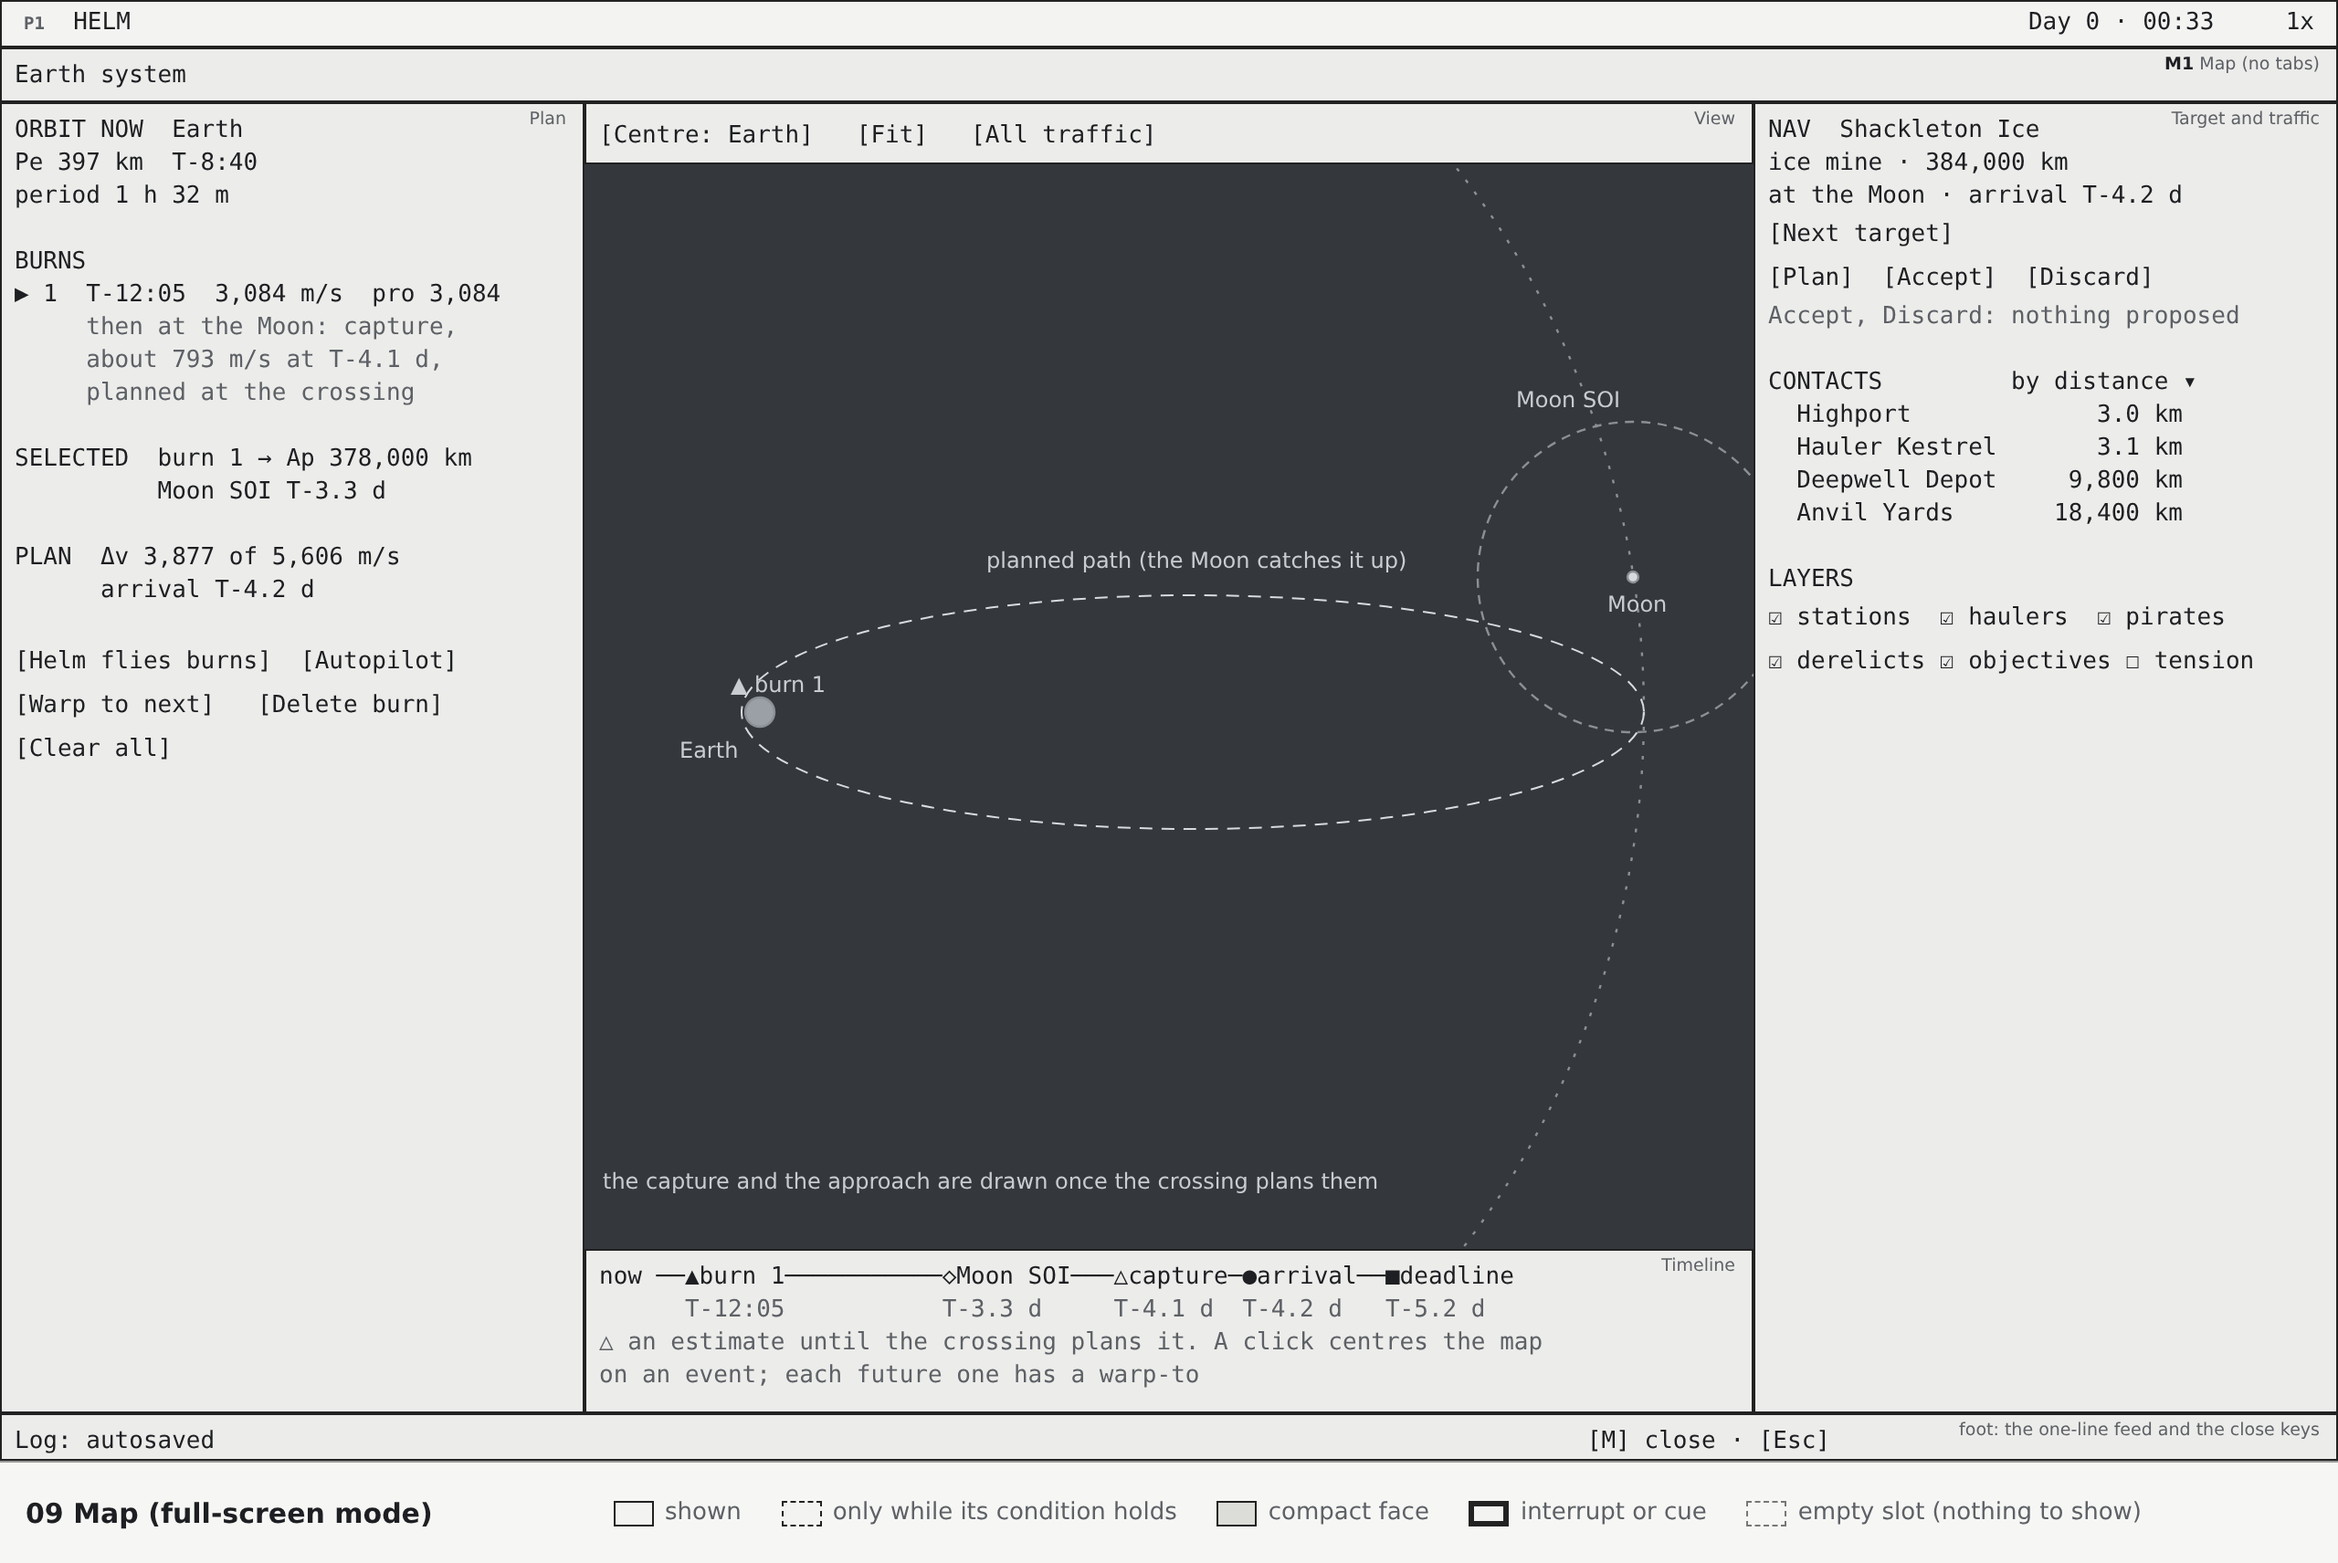
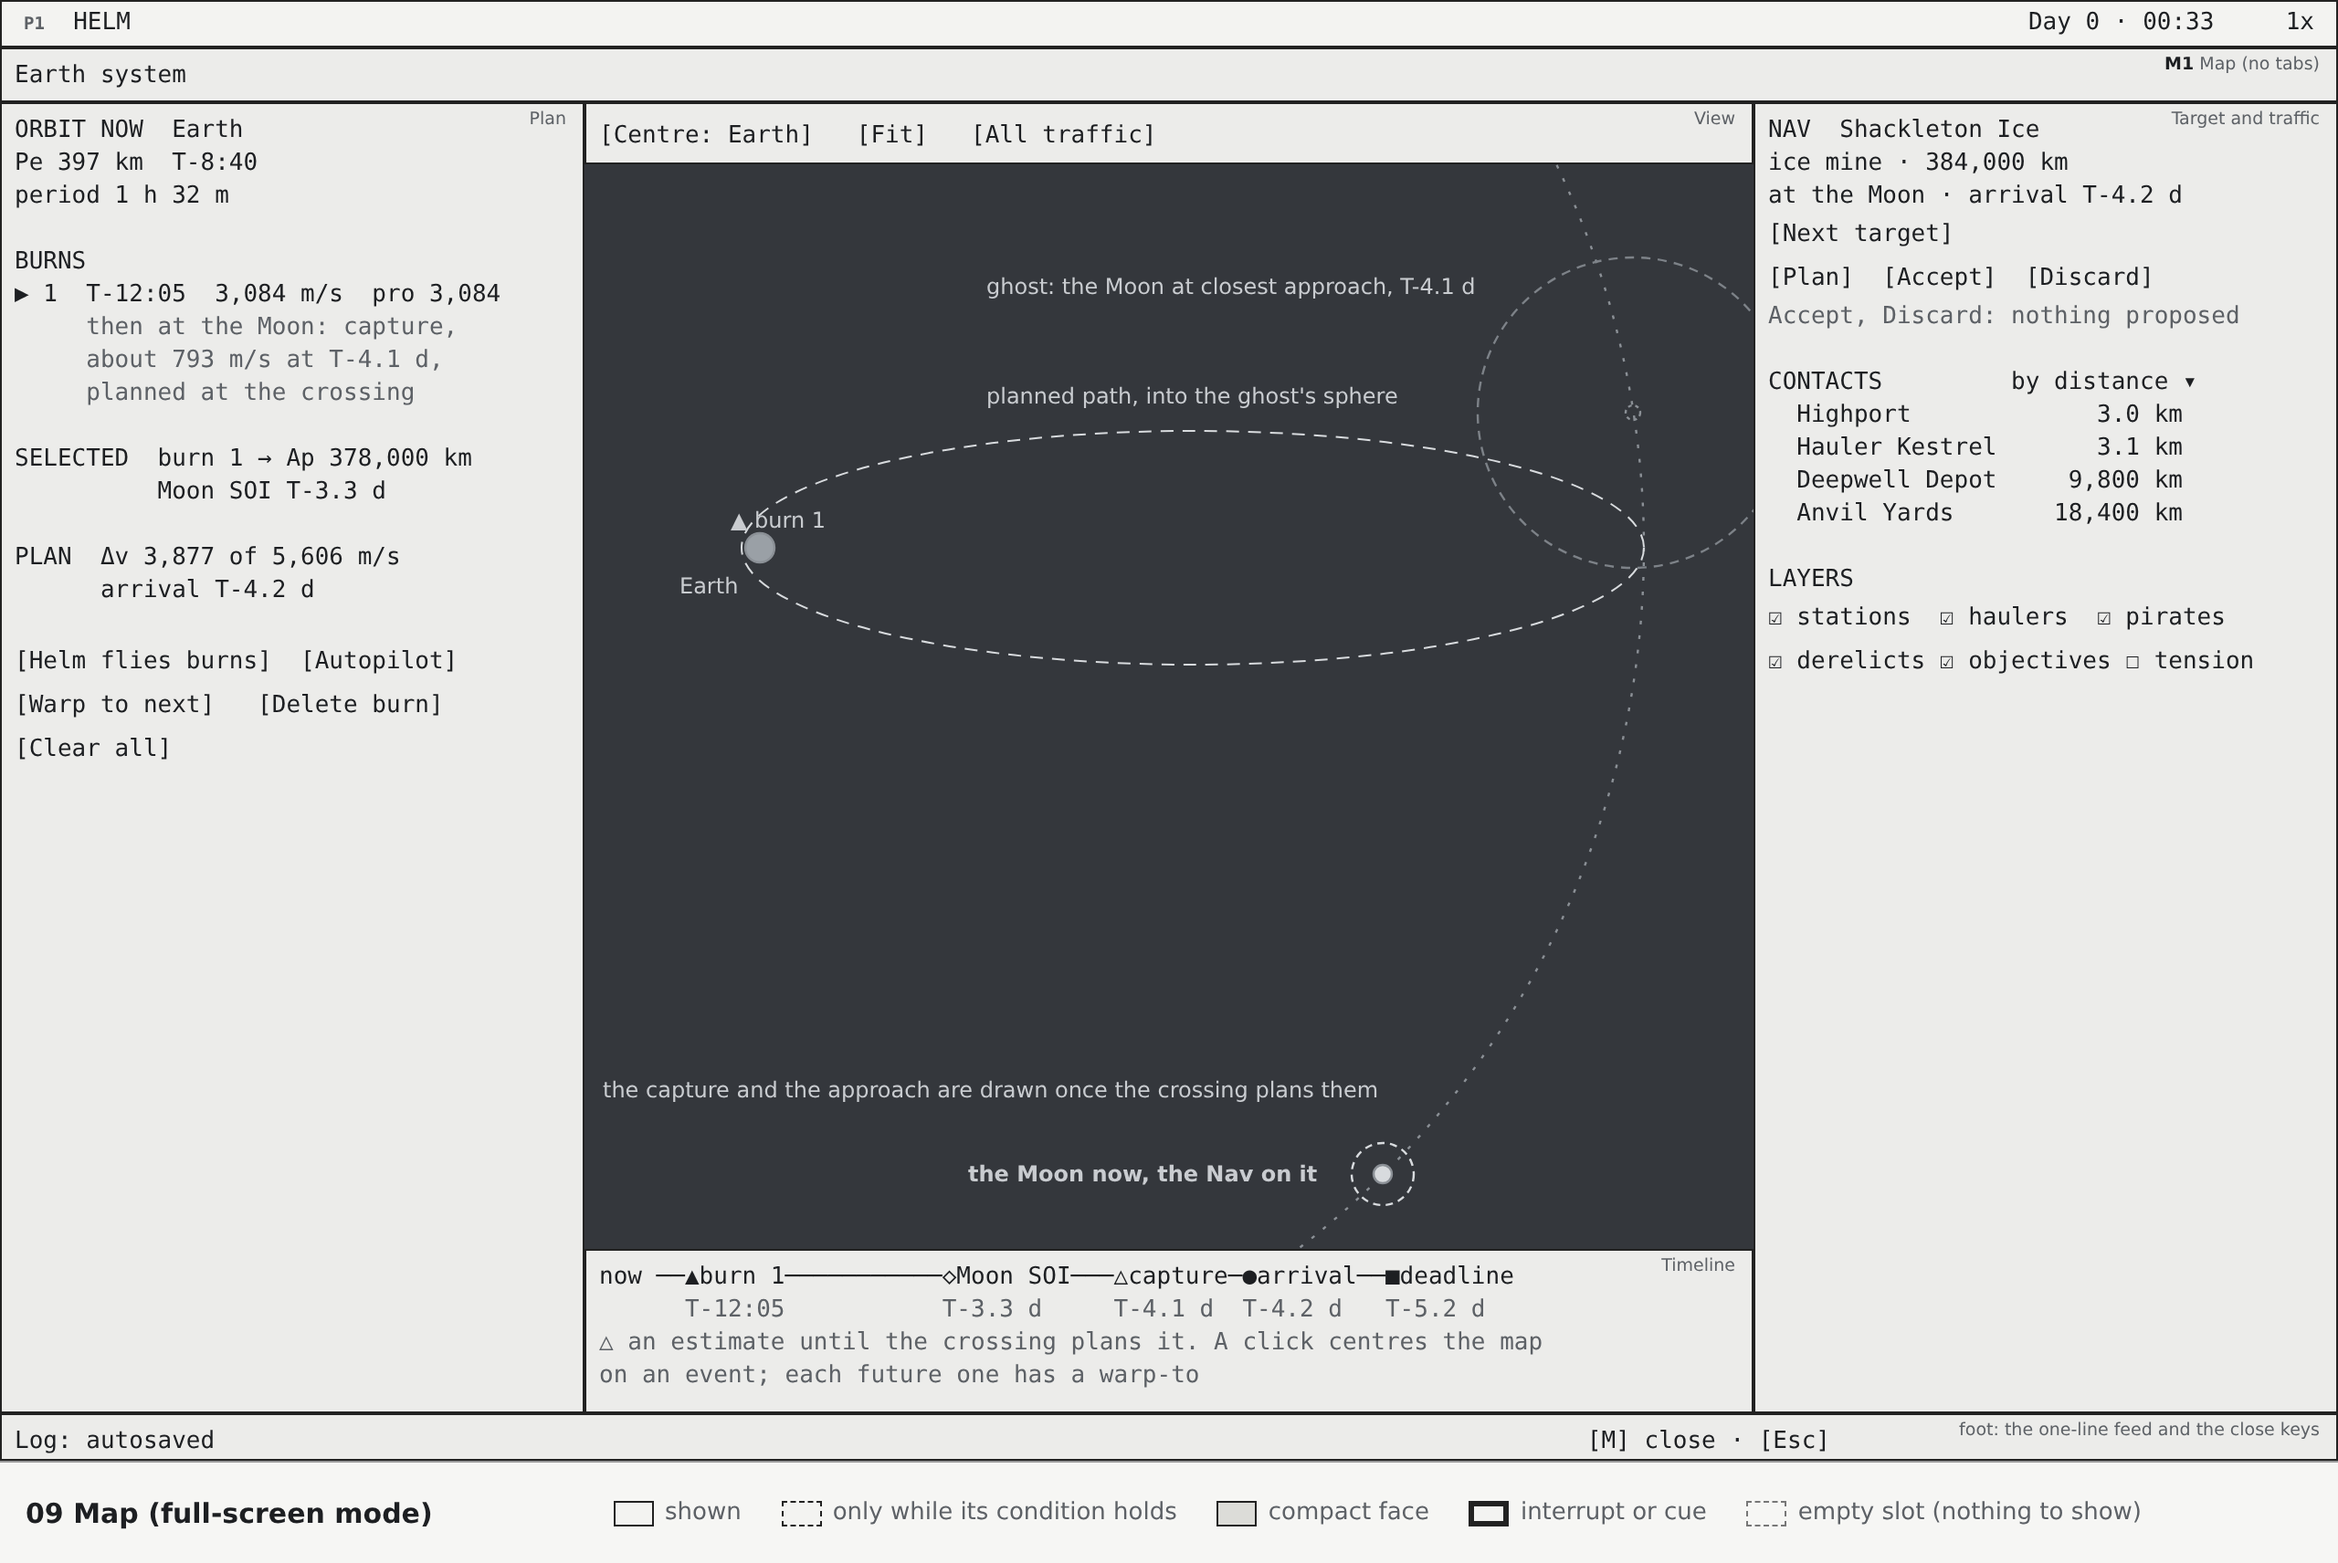
UI overhaul, context design v14: the map's ghost moon and Nav card
From the VFD direction's check of v13:

- M1 draws a body the plan meets twice, as the game does
  (PlayerOrbitPath): where it is now, with the Nav's mark on its
  station, and as a ghost, its outline and sphere, where it will be at
  the plan's closest approach (ghostTime), now labelled with that time.
  Wireframe 09 shows both, the ghost 54 degrees further along the
  Moon's orbit; Centre's encounter stop centres on the ghost.
- M1's Nav card follows H2's NAV rule: for a Nav around another body
  it gives that body and the arrival, not a closest approach.
- Section 14: OrbitPathProvider's ghost mark carries its time, and
  BoardingProvider's party states are X2's.

Claude-Session: https://claude.ai/code/session_019poqwTMfp6kHAvEvLYB3Cj

diff --git a/documentation/ui-overhaul/wireframes/wireframes.html b/documentation/ui-overhaul/wireframes/wireframes.html
@@ -469,13 +469,17 @@ const layouts = {
     box('', 'foot: the one-line feed and the close keys', 0, 774, W, 26, 'mode',
       ['Log: autosaved' + ' '.repeat(96) + '[M] close · [Esc]']);
     // At Fit, 780 km a unit: Earth at the left focus, the Moon 484 units out
-    circ(416, 390, 484, { 'stroke-dasharray': '2 6' });                                    // the Moon's orbit
-    el('ellipse', { cx: 653, cy: 390, rx: 247, ry: 64, fill: 'none', stroke: '#d8dbde', 'stroke-dasharray': '7 5' }); // after burn 1
-    circ(416, 390, 8, { fill: '#9aa0a6' }); wtext(372, 404, 'Earth');
-    circ(894, 316, 85, { 'stroke-dasharray': '5 4' }); circ(894, 316, 3, { fill: '#d8dbde' });   // 0.15 rad ahead
-    wtext(880, 324, 'Moon'); wtext(830, 212, 'Moon SOI');
-    wtext(400, 368, '▲ burn 1'); wtext(540, 300, 'planned path (the Moon catches it up)');
-    wtext(330, 640, 'the capture and the approach are drawn once the crossing plans them');
+    circ(416, 300, 484, { 'stroke-dasharray': '2 6' });                                    // the Moon's orbit
+    el('ellipse', { cx: 653, cy: 300, rx: 247, ry: 64, fill: 'none', stroke: '#d8dbde', 'stroke-dasharray': '7 5' }); // after burn 1
+    circ(416, 300, 8, { fill: '#9aa0a6' }); wtext(372, 314, 'Earth');
+    // The ghost: the Moon and its sphere where they will be at the leg's closest approach (T-4.1 d), 0.15 rad
+    // past the apoapsis; the path meets it. The Moon now is 54° back along its orbit (13.2° a day)
+    circ(894, 226, 85, { 'stroke-dasharray': '5 4', stroke: '#7d8288' }); circ(894, 226, 4, { 'stroke-dasharray': '2 2' });
+    wtext(540, 150, 'ghost: the Moon at closest approach, T-4.1 d');
+    circ(757, 643, 5, { fill: '#d8dbde' }); navMark(757, 643);
+    wtext(530, 636, 'the Moon now, the Nav on it', 'tag');
+    wtext(400, 278, '▲ burn 1'); wtext(540, 210, 'planned path, into the ghost\'s sphere');
+    wtext(330, 590, 'the capture and the approach are drawn once the crossing plans them');
   }],
   '10': ['Station (docked: a panel over the docked view)', () => {
     strip('HELM', 'Day 0 · 00:15     1x');

diff --git a/documentation/ui-overhaul/functional-context.md b/documentation/ui-overhaul/functional-context.md
@@ -10,7 +10,7 @@ Wireframes are grey boxes at the 1280 x 800 UI-unit layout the HUD already uses 
 [`wireframes/`](wireframes/). Positions and sizes are in UI units. `wireframes/wireframes.html` draws
 them and `node documentation/ui-overhaul/wireframes/render.js` renders them again.
 
-**Version 13.** The design is revised in rounds with the three art directions; the revision log is at
+**Version 14.** The design is revised in rounds with the three art directions; the revision log is at
 the end.
 
 ## Contents
@@ -1357,12 +1357,17 @@ already showing.
 ### 10.1 M1 Map
 
 Keeps everything the `ManeuverMap` does (zoom, pan, burn handles, transfers, traffic, patched conics).
+A body the plan meets is drawn twice, as the game draws it (`PlayerOrbitPath`): where it is now, with
+the Nav's mark on its station if the Nav orbits it, and as a ghost, its outline and sphere of
+influence, where it will be when the plan comes closest to it (`ghostTime`: the leg's periapsis, or
+its entry when it comes no closer). The path meets the ghost, so the ghost carries a label with that
+time ("ghost: the Moon at closest approach, T-4.1 d"), and Centre's encounter stop centres on it.
 Its panels are rebuilt:
 
 | Panel | Zone | Content |
 |---|---|---|
 | Plan | Left, 320 wide | Orbit now (body, Ap and Pe with times, leaving out an apsis past the next burn as H2 does, period); the burns as a list (number, T-, Δv, prograde and radial), then the leg still to come when the trip goes on into another sphere of influence (its capture, with the estimated Δv and time, planned at the crossing); the selected burn's result; totals (Δv need and have, arrival); actions: Helm flies burns, Autopilot, Warp to next burn, Delete burn (the selected one), Clear all |
-| Target and traffic | Right, 320 wide | The Nav card (name, kind, detail line, distance, closest approach); Next target; transfer: Plan, Accept, Discard; a contact list sortable by distance or kind; layer toggles: stations, haulers, pirates, derelicts, objectives, faction tension |
+| Target and traffic | Right, 320 wide | The Nav card (name, kind, distance; then as H2's NAV lines: for a Nav around the ship's body, closing and the closest approach, and for one around another body, that body and the plan's arrival); Next target; transfer: Plan, Accept, Discard; a contact list sortable by distance or kind; layer toggles: stations, haulers, pirates, derelicts, objectives, faction tension |
 | View | Top of the map, between the panels | Centre (cycles what the map centres on), Fit (the plan in view), All traffic (zooms out to every craft), as today's VIEW row |
 | Timeline | Bottom, full width between the panels, 90 tall | A time axis from now to the last event: burns, apsides, sphere-of-influence changes, a leg's capture, impact, arrival, contract deadlines. Click an event to centre the map on it; a warp-to on each future event |
 
@@ -1530,7 +1535,9 @@ can fix); P1. The flight instruments retire.
 ![Map](wireframes/09-map.png)
 
 The plan to Shackleton Ice at the moment of 11.1: one burn planned, and the capture at the Moon shown
-as an estimate until the crossing plans it. The view row sits between the panels, and the timeline
+as an estimate until the crossing plans it. The Moon is drawn where it is now, with the Nav's mark on
+it, and as the ghost the path meets, 54° further along its orbit, where it will be at the closest
+approach in 4.1 days. The Nav card names the Moon and gives the arrival, as H2 does. The view row sits between the panels, and the timeline
 runs to the contract's deadline. The map has no tabs, so the number keys keep the helm orders.
 
 ### 11.10 Station
@@ -1678,12 +1685,13 @@ The design needs these from the game, through ui-hud's provider pattern (interfa
 | `StationProvider` | New, gathering existing | Station name, faction, standing, services available with counts, infirmary |
 | Contact state | Change `HudMarkerComponent` | Allegiance and state as a value (from `HostileLabel`), not only tint and label text |
 | Inspect | New | What is under the pointer on deck: crew, system, tile, door, bay, with their fields |
-| `BoardingProvider` | Change | The boarding party's size and what it is doing (crossing, fighting, holding), for X2 |
+| `BoardingProvider` | Change | The boarding party's size and what it is doing (crossing, fighting or coming home), for X2 |
+| `OrbitPathProvider` | Change | A ghost mark carries the time it stands for (`PlayerOrbitPath.ghostTime`), for M1's label beside the ghost; today it has the body's name and sizes only |
 | `ThreatProvider` | Change | Time to impact with the missile's closing burn in it: t = (−v + √(v² + 2ad)) / a, with a the missile's `closingBurn` while it has fuel above its reserve. Today's time (`CombatThreats`) is closest approach at the present speed, an upper bound that runs long while the motor burns: a harpoon from 7.7 km reads 37 s five seconds after launch, when it lands in about 17 |
 
-The existing providers (`TradeProvider`, `YardProvider`, `MissionProvider`, `BoardingProvider`,
-`CrewProvider`, `ShipyardProvider`, `OrbitPathProvider`, `ManeuverPlannerProvider`,
-`TrafficMapProvider`, `ThreatProvider`, `TargetingProvider`) carry the full-screen modes as they are.
+The other existing providers (`TradeProvider`, `YardProvider`, `MissionProvider`, `CrewProvider`,
+`ShipyardProvider`, `ManeuverPlannerProvider`, `TrafficMapProvider`, `TargetingProvider`) carry the
+full-screen modes as they are.
 
 ---
 
@@ -1759,3 +1767,4 @@ largest scale, and the centre stays clear.
 | 11 | 4 (NASA-punk critique) | Samples the game can't produce, checked against its code. Wireframe 11's crew do what the game's crews would: Cole is a marine, who never seals, and mans the weapons console; Cole's light wound in the HOLD keeps the crew clear of the breach until the fight ends; Ada repairs the gun, whose repair never waits; Bea, with nothing else to take, flies. A cut conduit is yard work, not a crew job, so version 10's "Repair conduit ×2" is gone and the power panel gives the yard's price. The cut that strands a gun is one conduit under the FWD STBD autocannon, since the laser's tile is the only link from the aft systems to the reactor. The damaged autocannon is at 20%, under the 30% where a system stops working. The systems list shows two engines and eight RCS blocks, one stopped. P2 gains a fourth handling state, Held (‖), for the game's rule that crews keep clear of where crew were hit and stay inside at battle stations; the P2 sample and wireframe 07 use it, and Ada's bleed-out in 07 is under the two minutes that send the crew in anyway. The P2 sample says why nobody is free for the vacuum: the gunship's other two crew are marines, who never seal. X2's party is the ship's marines (Cole alone) and goes home once the craft is taken. Wireframe 10 has no salvage on day 0 and nothing on order, so the delivery's 40 Food fit the 40 m³ hold |
 | 12 | 4 (NASA-punk critique) | H5's cruise range is the smallest step that holds every contact inside 50 km, in the shape of the combat rule: at a fixed 50 km, the station the ship has just left sat under the own-ship mark, and leaving a station is the commonest cruise. Automatic ranges step out at once and back in only inside 80% of the smaller ring. Wireframes 01 and 12 show the scope at 5 km |
 | 13 | 4 (NASA-punk critique) | Wireframe 11's RCS row reads a dash for power, as for health: the game's RCS blocks draw no power (`RcsThruster`, `RcsThrust`: a block fires while its hull tile stands and there is propellant), and the systems list dashes any value the game doesn't have |
+| 14 | 4 (VFD critique) | M1 draws a body the plan meets twice, as the game does: where it is now, with the Nav's mark on its station, and as a ghost where it will be at the plan's closest approach, labelled with that time; wireframe 09 shows both, the ghost 54° further along the Moon's orbit. M1's Nav card follows H2's NAV rule, so for a Nav around another body it gives that body and the arrival, not a closest approach. Section 14 lists `OrbitPathProvider`'s ghost time and gives the boarding party's states as X2 has them |
